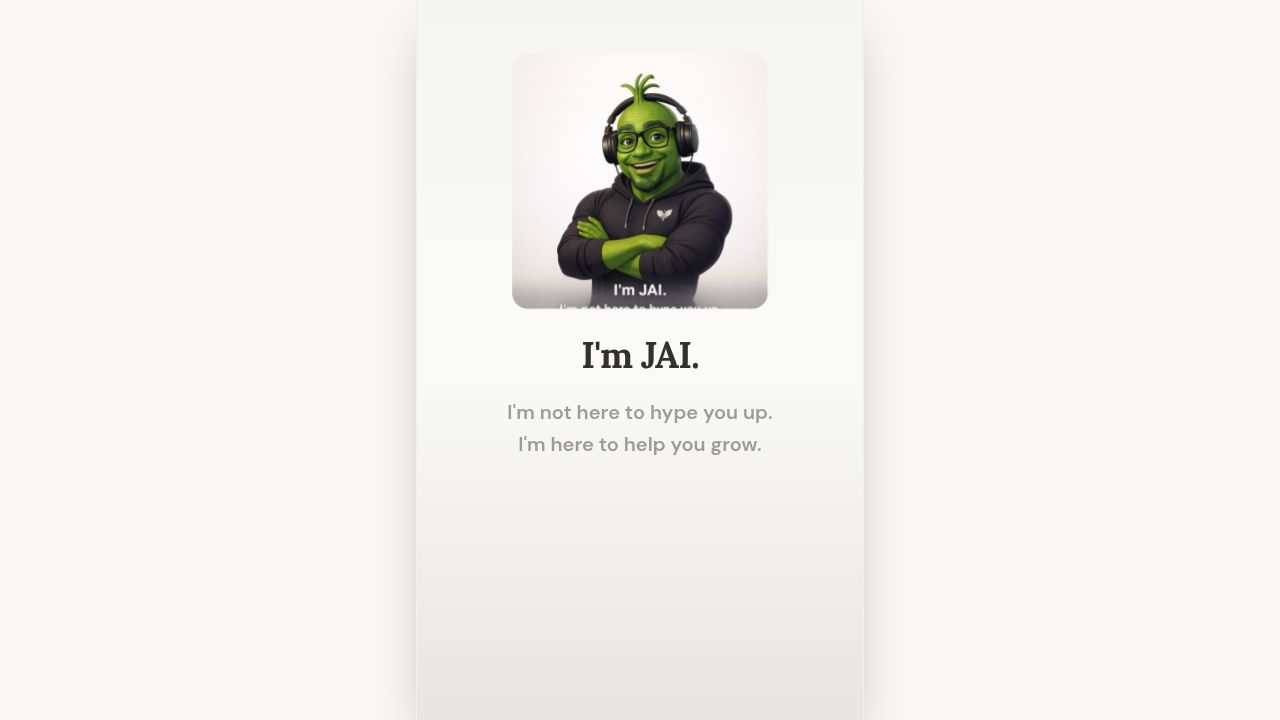
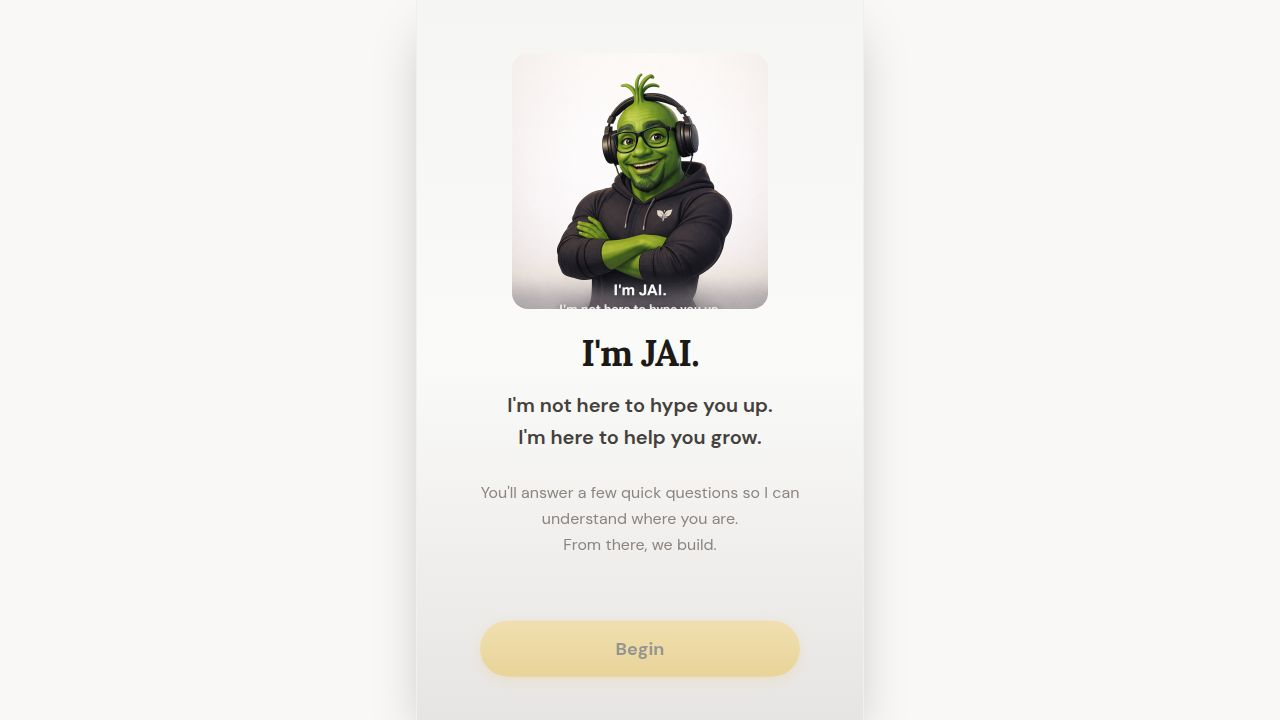
Add toast notifications and detailed server logs for user rewards
Enhance user feedback by adding on-screen toast notifications for successful rewards and detailed server-side logging for reward verification, including growth state and stage changes. Also, implement a new debug endpoint for retrieving growth progress data.

Replit-Commit-Author: Agent
Replit-Commit-Session-Id: 721a4bc7-d328-41e4-b1d2-9748ac359bc1
Replit-Commit-Checkpoint-Type: full_checkpoint
Replit-Commit-Event-Id: 26faead8-5ed7-4b64-86b9-49e4351d51a5
Replit-Commit-Screenshot-Url: https://storage.googleapis.com/screenshot-production-us-central1/712e0568-89a9-451e-b842-3f620358a583/721a4bc7-d328-41e4-b1d2-9748ac359bc1/0SgcrWB
Replit-Helium-Checkpoint-Created: true

diff --git a/server/routes.ts b/server/routes.ts
@@ -1064,6 +1064,36 @@ export async function registerRoutes(
           growthResult = rewardResult.growthResult;
         }
 
+        // --- REWARD VERIFICATION LOGGING ---
+        if (rewardResult.success && (agg.primaryCategory === "VA" || agg.primaryCategory === "AR")) {
+          try {
+            const debugEntries = await storage.getEntries(userId);
+            const matchGoalForDebug = targetedGoal || untargetedGoal;
+            const goalCreatedDebug = matchGoalForDebug?.createdAt
+              ? new Date(matchGoalForDebug.createdAt).toISOString().split("T")[0]
+              : "1970-01-01";
+            const entryCount = debugEntries.filter(
+              (e) => e.mood === "happy" && e.date >= goalCreatedDebug
+            ).length;
+            const prevGrowth = computeGrowthStateFromEntries(Math.max(0, entryCount - 1));
+            const newGrowth = computeGrowthStateFromEntries(entryCount);
+            const stageChanged = prevGrowth.seedStage !== newGrowth.seedStage;
+            const stageInfo = SEED_STAGE_INFO[newGrowth.seedStage] || SEED_STAGE_INFO[0];
+            console.log(`[DEBUG] REWARD_VERIFICATION | actionType=${agg.primaryCategory} | apAwarded=${rewardResult.apActuallyAwarded}`);
+            console.log(`  VA/AR entries toward goal: ${entryCount} (was ${entryCount - 1})`);
+            console.log(`  fillPercent: ${prevGrowth.fillPercent}% → ${newGrowth.fillPercent}%`);
+            console.log(`  cupsFilled: ${prevGrowth.cupsFilled} → ${newGrowth.cupsFilled}`);
+            if (stageChanged) {
+              const prevInfo = SEED_STAGE_INFO[prevGrowth.seedStage] || SEED_STAGE_INFO[0];
+              console.log(`  SEED STAGE CHANGE: stage ${prevGrowth.seedStage} (${prevInfo.name}) → stage ${newGrowth.seedStage} (${stageInfo.name})`);
+            } else {
+              console.log(`  seedStage: ${newGrowth.seedStage} (${stageInfo.name}) [unchanged]`);
+            }
+          } catch (debugErr) {
+            console.error("[DEBUG] REWARD_VERIFICATION log failed:", (debugErr as Error).message);
+          }
+        }
+
         // --- PROGRESS MODE: Anime Celebration Engine ---
         // GATED: celebration fires ONLY after a successful reward transaction.
         if (rewardResult.success) {
@@ -1742,6 +1772,68 @@ export async function registerRoutes(
       }
 
       return res.json(result);
+    } catch (err) {
+      console.error(err);
+      return res.status(500).json({ message: "Server error" });
+    }
+  });
+
+  app.get("/api/users/:userId/growth-debug", async (req, res) => {
+    try {
+      const userId = req.params.userId;
+      const activeGoals = await storage.getActiveGoals(userId);
+      const allEntries = await storage.getEntries(userId);
+
+      const STAGE_CUP_REQUIREMENTS: Record<number, number> = {
+        1: 1, 2: 2, 3: 3, 4: 4, 5: 5, 6: 8,
+      };
+
+      const goals: any[] = [];
+      for (const goal of activeGoals) {
+        const goalCreatedAt = goal.createdAt
+          ? new Date(goal.createdAt).toISOString().split("T")[0]
+          : "1970-01-01";
+        const happyEntries = allEntries.filter(
+          (e) => e.mood === "happy" && e.date >= goalCreatedAt
+        );
+        const entryCount = happyEntries.length;
+        const growth = computeGrowthStateFromEntries(entryCount);
+        const stageInfo = SEED_STAGE_INFO[growth.seedStage] || SEED_STAGE_INFO[0];
+
+        const nextStage = growth.seedStage + 1;
+        const nextStageCupsNeeded = STAGE_CUP_REQUIREMENTS[nextStage] ?? null;
+        const cupsUntilNextStage = nextStageCupsNeeded !== null
+          ? Math.max(0, nextStageCupsNeeded - growth.cupsFilled)
+          : null;
+
+        const lastEntry = happyEntries
+          .slice()
+          .sort((a, b) => (b.date > a.date ? 1 : -1))[0];
+        const lastRewardAt = lastEntry?.date ?? null;
+
+        goals.push({
+          goalId: goal.id,
+          goalTitle: goal.title,
+          goalType: goal.goalType,
+          totalHappyEntries: entryCount,
+          waterEvents: growth.waterEvents,
+          cupsFilled: growth.cupsFilled,
+          fillPercent: growth.fillPercent,
+          seedStage: growth.seedStage,
+          seedStageName: stageInfo.name,
+          nextStage: nextStage <= 6 ? nextStage : null,
+          nextStageName: nextStage <= 6 ? (SEED_STAGE_INFO[nextStage]?.name ?? null) : null,
+          cupsUntilNextStage,
+          lastRewardAt,
+        });
+      }
+
+      return res.json({
+        userId,
+        activeGoalCount: activeGoals.length,
+        goals,
+        totalHappyEntriesAllTime: allEntries.filter((e) => e.mood === "happy").length,
+      });
     } catch (err) {
       console.error(err);
       return res.status(500).json({ message: "Server error" });

diff --git a/client/src/pages/Chat.tsx b/client/src/pages/Chat.tsx
@@ -2,6 +2,7 @@ import { useState, useRef, useEffect, useCallback, Fragment } from "react";
 import { useStore } from "@/lib/store";
 import { Button } from "@/components/ui/button";
 import { Input } from "@/components/ui/input";
+import { useToast } from "@/hooks/use-toast";
 import { Send, Plus, Camera, Image, X, Droplets, Loader2, RotateCcw, Ban, Sprout, PenLine, CheckCircle2, Zap } from "lucide-react";
 import { motion, AnimatePresence } from "framer-motion";
 import { useQuery, useMutation, useQueryClient } from "@tanstack/react-query";
@@ -170,6 +171,7 @@ function NudgeCard({
 
 export default function Chat() {
   const userId = useStore((s) => s.userId);
+  const { toast } = useToast();
   const [, setLocation] = useLocation();
   const [input, setInput] = useState("");
   const [showAttach, setShowAttach] = useState(false);
@@ -301,6 +303,11 @@ export default function Chat() {
               waterAwarded: data.water!.awarded,
             },
           }));
+          toast({
+            title: "ENTRY REWARD PROCESSED",
+            description: `${category} · +${data.water!.actionPointsAccumulated} AP · Water added`,
+            duration: 3000,
+          });
         } else if ((category === "IO" || category === "RW") && looksLikeCompletedAction(sentText)) {
           // Nudge card: offer to log this as verified progress
           setInlineCards(prev => ({